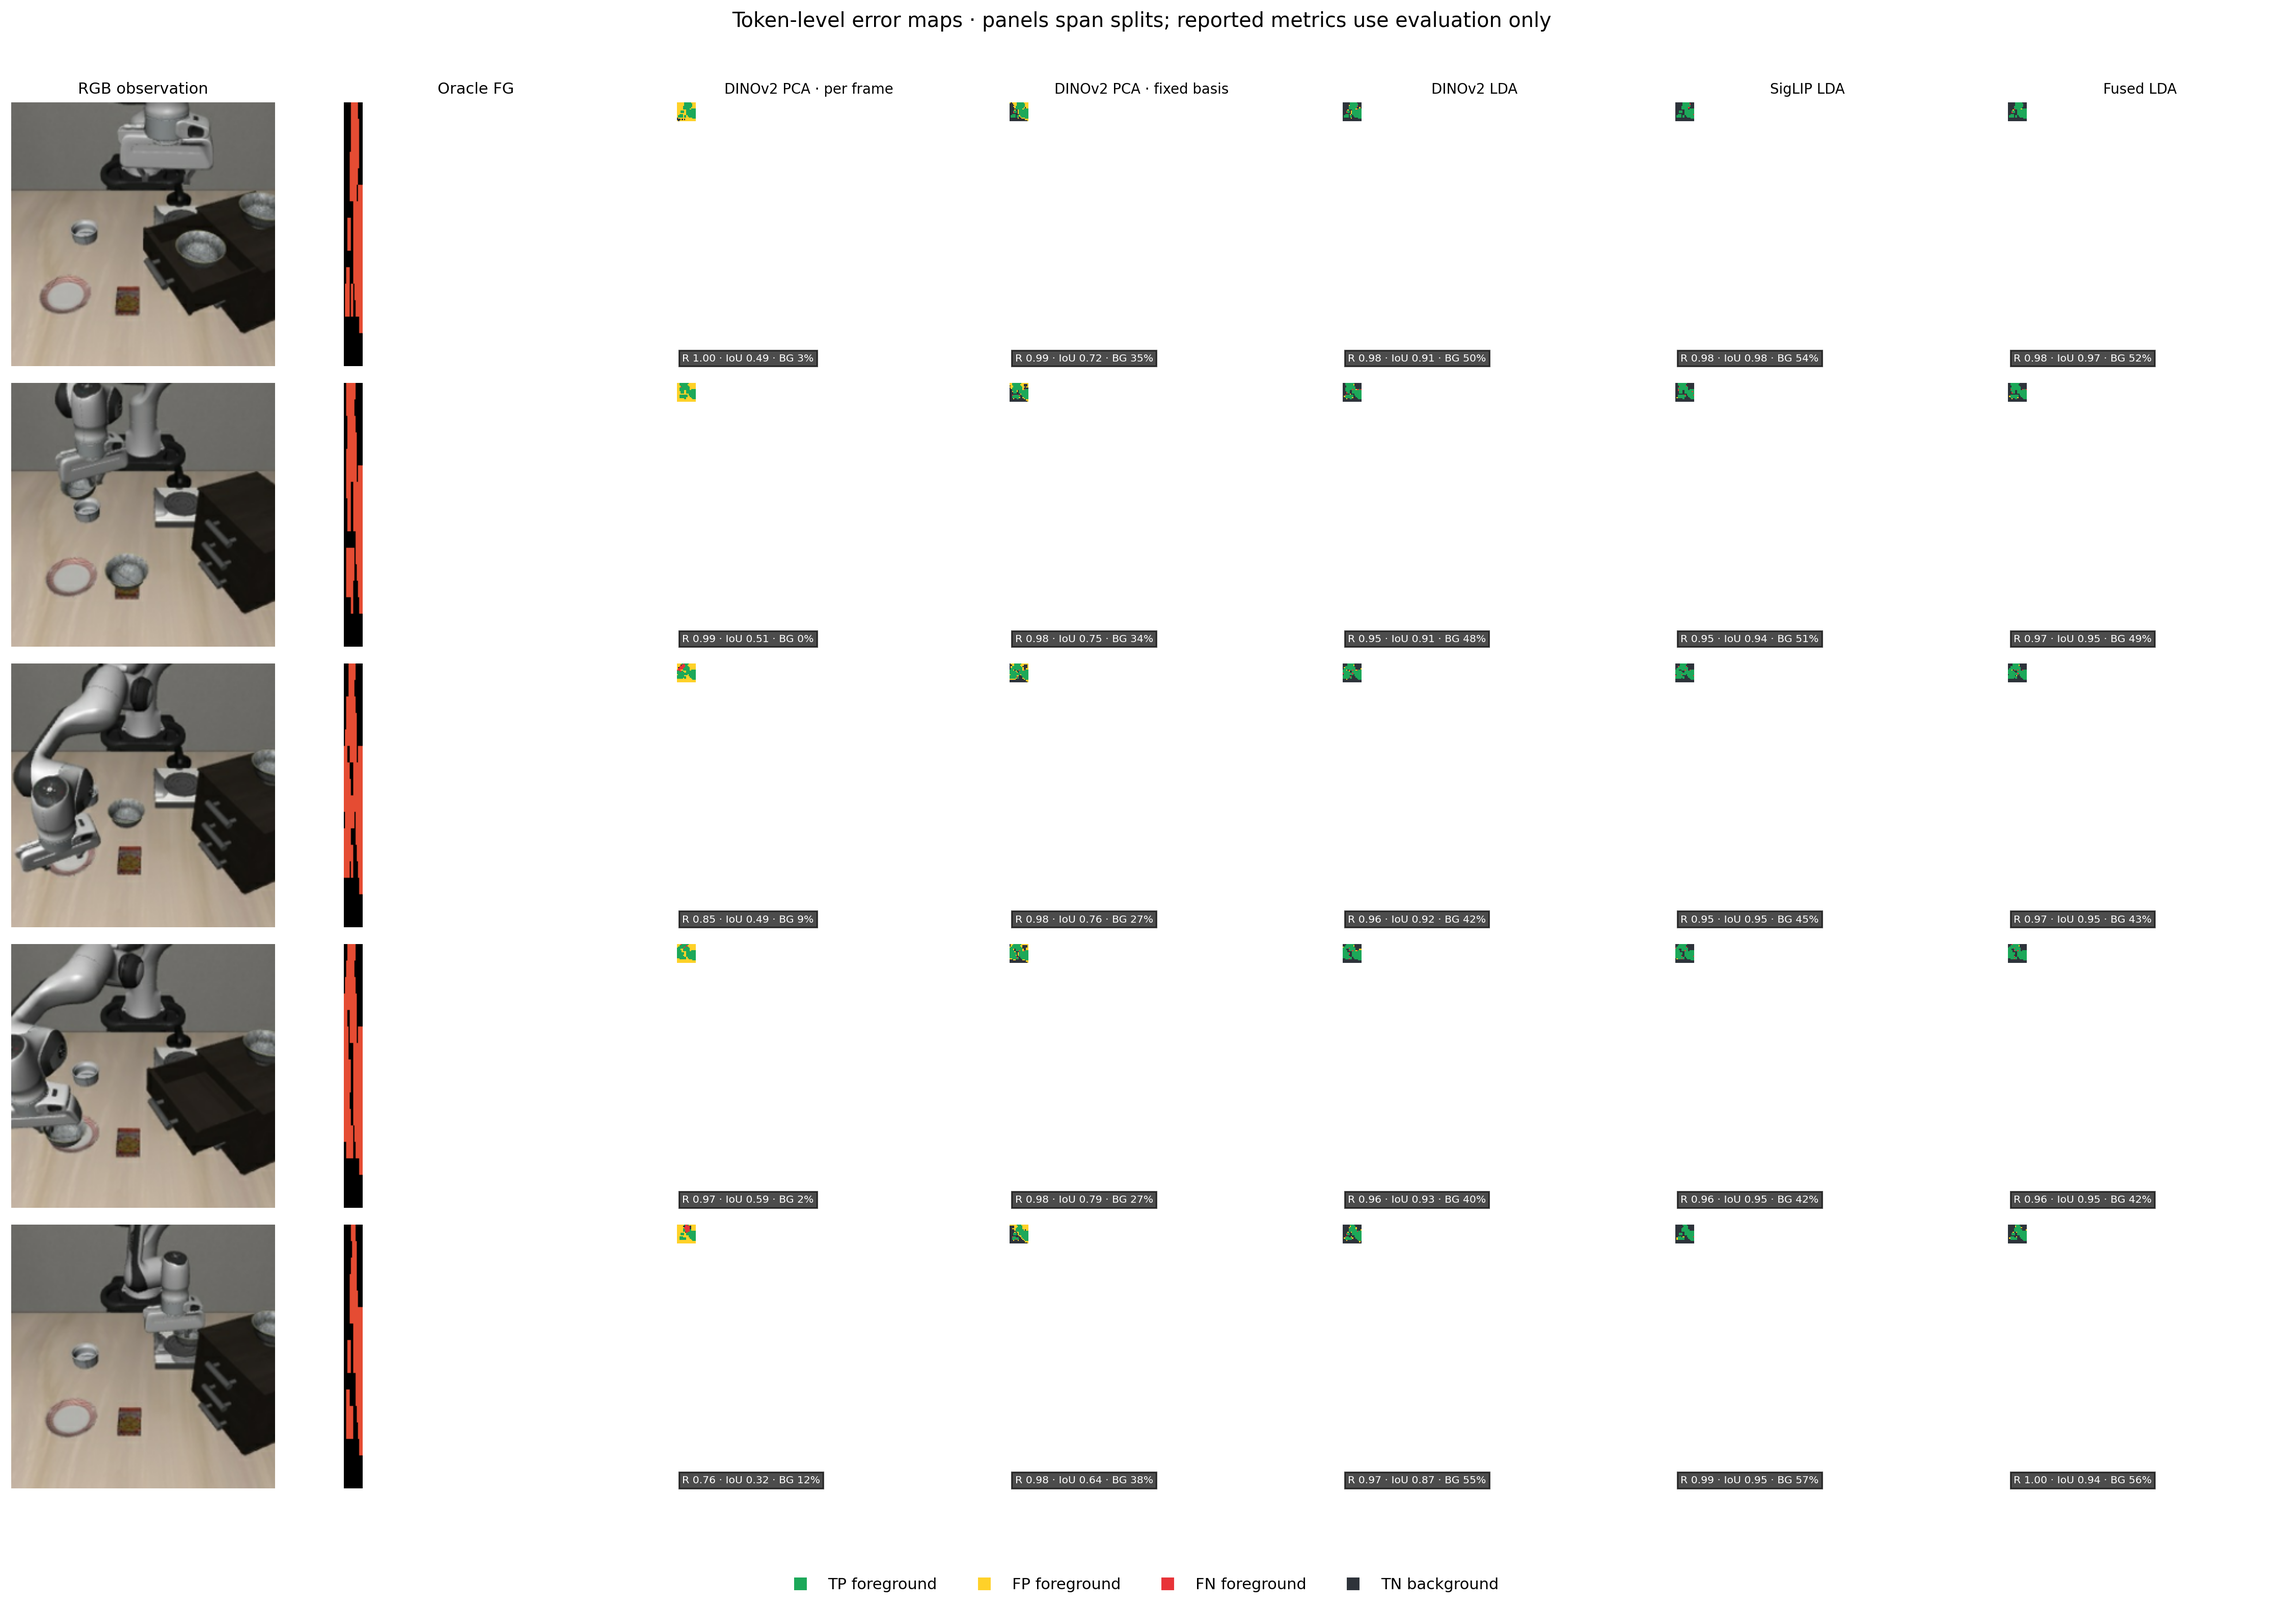
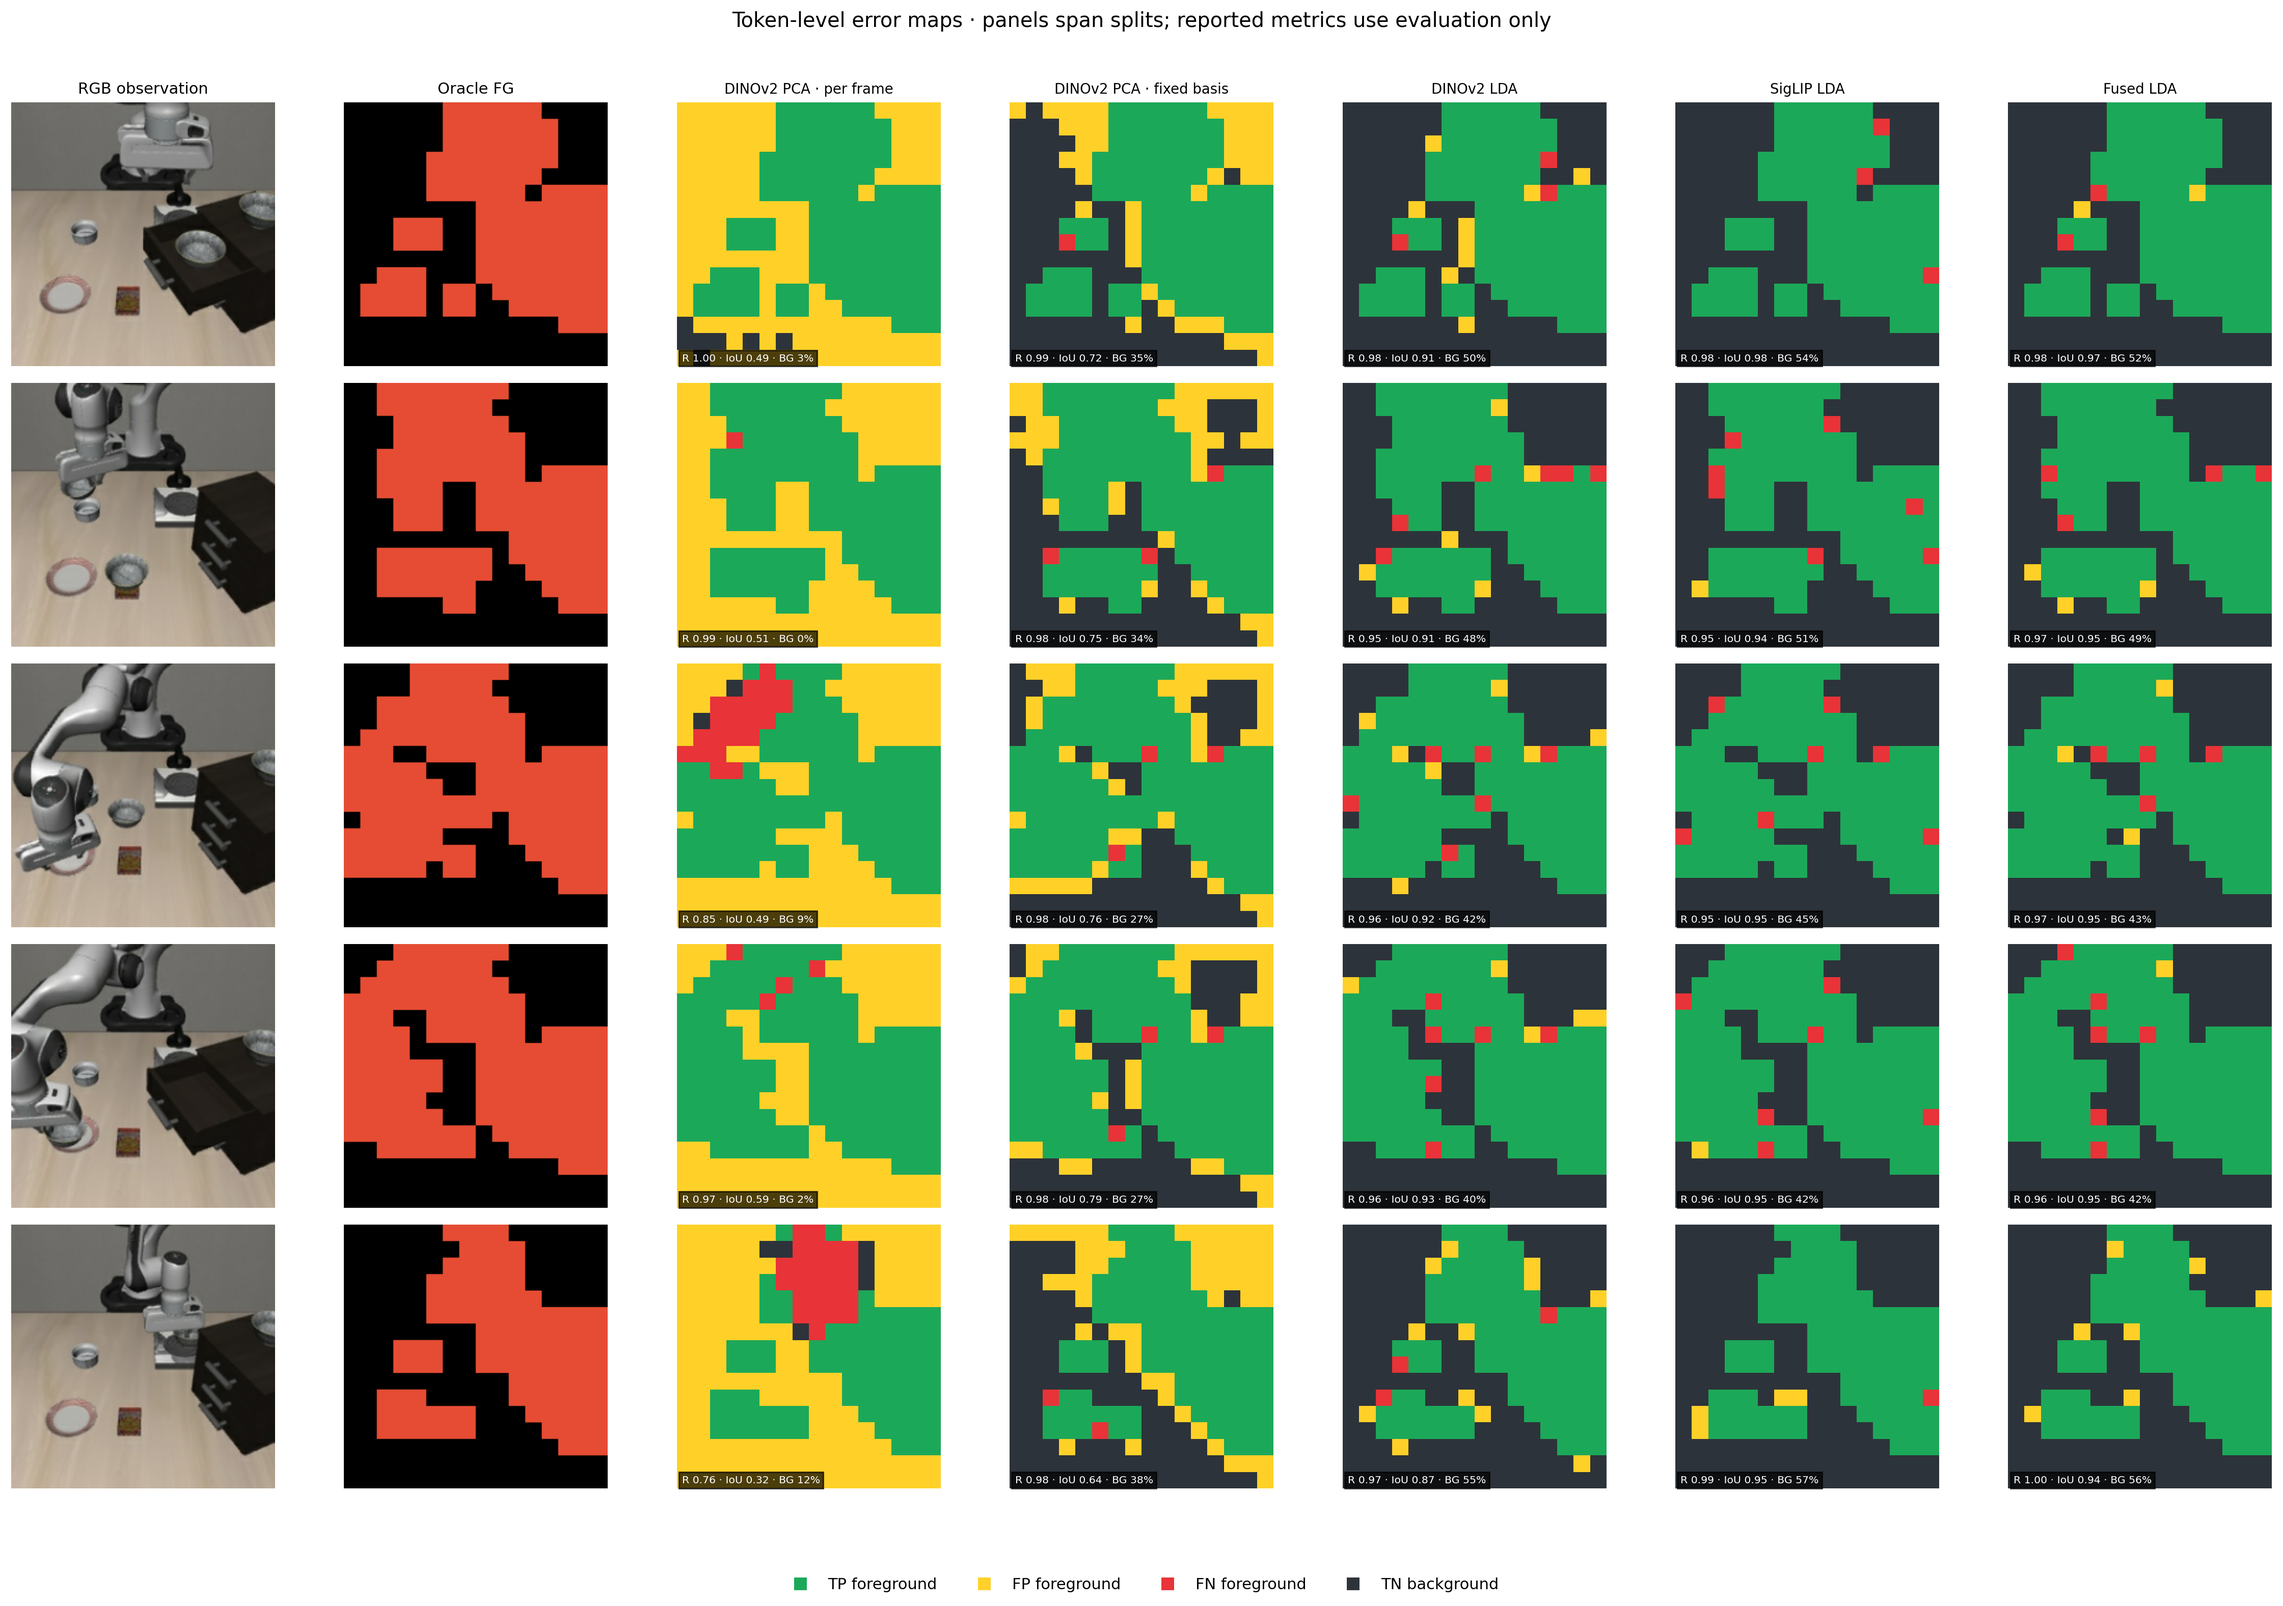
Fix Track B error-map visualization scale

diff --git a/experiments/kv_cache/experiments/track_b_segmentation/evaluate.py b/experiments/kv_cache/experiments/track_b_segmentation/evaluate.py
@@ -414,6 +414,25 @@ def _error_grid(truth: np.ndarray, pred: np.ndarray) -> np.ndarray:
     return colors[categories]
 
 
+def _expand_token_rgb(token_rgb: np.ndarray, image_shape: tuple[int, int]) -> np.ndarray:
+    """Nearest-neighbor expand a 16×16 RGB token map to its matching policy image."""
+    height, width = map(int, image_shape)
+    token_rgb = np.asarray(token_rgb, dtype=np.float32)
+    if token_rgb.shape != (16, 16, 3):
+        raise ValueError(f"Expected a 16×16 RGB token map, got {token_rgb.shape}.")
+    if height % 16 == 0 and width % 16 == 0:
+        return np.repeat(
+            np.repeat(token_rgb, height // 16, axis=0), width // 16, axis=1
+        )
+    # Preserve the discrete token colors when a policy image is not divisible by 16.
+    pixels = np.clip(np.rint(token_rgb * 255), 0, 255).astype(np.uint8)
+    nearest = getattr(Image, "Resampling", Image).NEAREST
+    return np.asarray(
+        Image.fromarray(pixels).resize((width, height), resample=nearest),
+        dtype=np.float32,
+    ) / 255.0
+
+
 def _pillow_font(size: int) -> Any:
     from PIL import ImageFont
 
@@ -735,12 +754,18 @@ def _save_visuals(
             rgb = np.asarray(Image.open(OUT / row["rgb_path"]).convert("RGB"))
             truth = labels[sid]
             axes[r_index, 0].imshow(rgb)
-            axes[r_index, 1].imshow(np.repeat(np.repeat(truth.reshape(16, 16), 14, axis=0)[..., None], 3, axis=2) * np.array([0.9, 0.3, 0.2]))
+            oracle_grid = np.zeros((16, 16, 3), dtype=np.float32)
+            oracle_grid[truth.reshape(16, 16)] = (0.9, 0.3, 0.2)
+            axes[r_index, 1].imshow(_expand_token_rgb(oracle_grid, rgb.shape[:2]))
             _draw_grid(axes[r_index, 1])
             axes[r_index, 0].set_ylabel(f"{row['trajectory_id']} · t={row['time_step']}", fontsize=8)
             for i, method in enumerate(method_order, start=2):
                 pred = predictions[method]["current"][sid]
-                axes[r_index, i].imshow(_error_grid(truth, pred), interpolation="nearest")
+                # The grid overlay uses 224-pixel coordinates. Keep the error image in
+                # the same pixel extent/aspect as RGB; plotting the raw 16×16 map makes
+                # those fixed grid ticks expand the axes and leaves the mask tiny.
+                error_image = _expand_token_rgb(_error_grid(truth, pred), rgb.shape[:2])
+                axes[r_index, i].imshow(error_image, interpolation="nearest")
                 _draw_grid(axes[r_index, i])
                 stats = _metrics(truth, pred)
                 axes[r_index, i].text(
